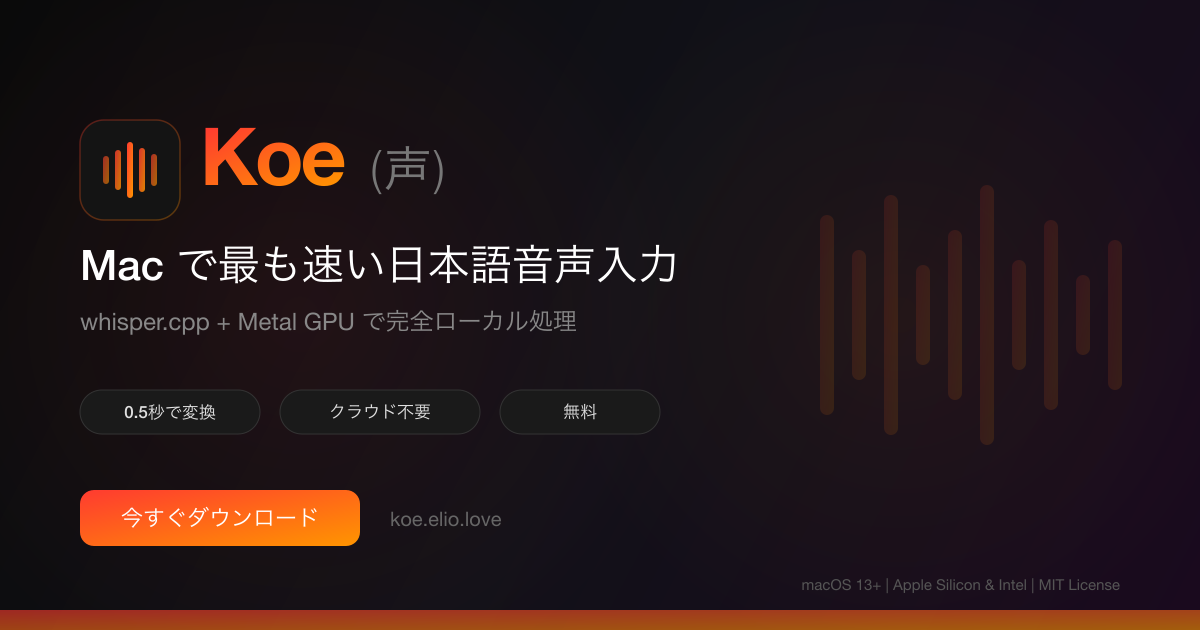
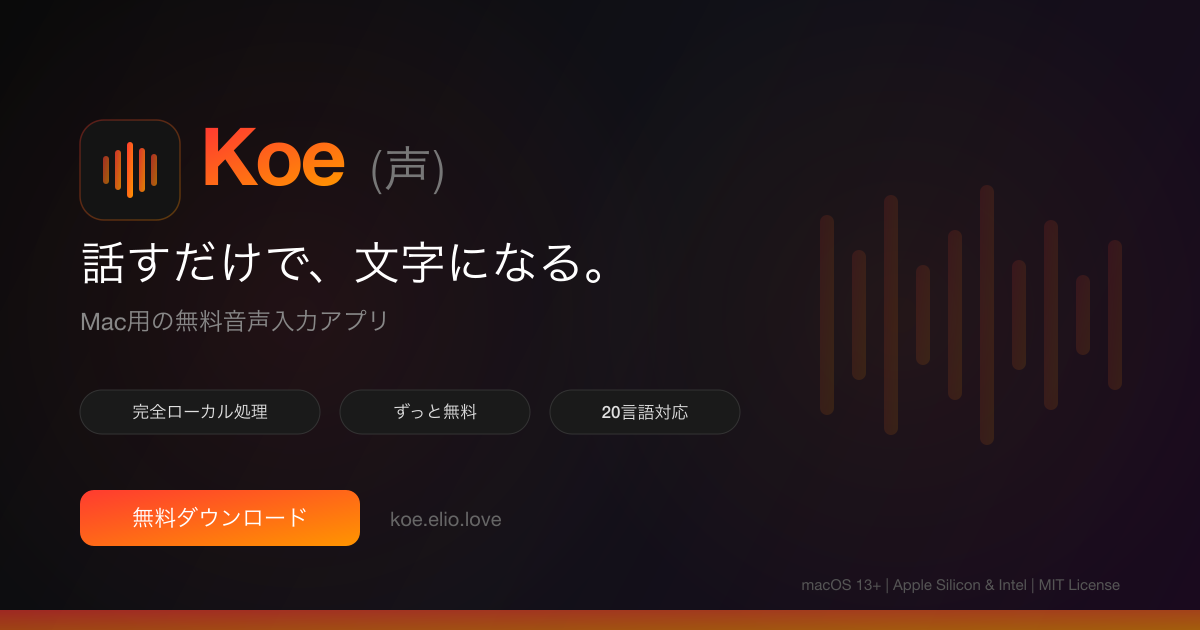
Update OGP image and JSON-LD to match new site messaging
- og.png: "話すだけで、文字になる" + "完全ローカル処理/ずっと無料/20言語対応"
- og.svg: source updated with new tagline and badges
- JSON-LD: description, version 2.2.5, simplified featureList
- og.html: template for future regeneration

diff --git a/site/og.html b/site/og.html
@@ -1,0 +1,98 @@
+<!DOCTYPE html>
+<html>
+<head>
+<meta charset="utf-8">
+<style>
+* { margin: 0; padding: 0; box-sizing: border-box; }
+body {
+  width: 1200px;
+  height: 630px;
+  background: #0a0a0a;
+  font-family: -apple-system, 'Noto Sans JP', sans-serif;
+  display: flex;
+  align-items: center;
+  justify-content: center;
+  position: relative;
+  overflow: hidden;
+}
+body::before {
+  content: '';
+  position: absolute;
+  top: -200px;
+  left: 50%;
+  transform: translateX(-50%);
+  width: 800px;
+  height: 800px;
+  background: radial-gradient(circle, rgba(255,59,48,.12) 0%, transparent 70%);
+}
+.content {
+  text-align: center;
+  position: relative;
+  z-index: 1;
+}
+.icon {
+  width: 80px;
+  height: 80px;
+  margin: 0 auto 32px;
+}
+h1 {
+  font-size: 72px;
+  font-weight: 700;
+  letter-spacing: -3px;
+  background: linear-gradient(135deg, #ff3b30, #ff9500);
+  -webkit-background-clip: text;
+  -webkit-text-fill-color: transparent;
+  margin-bottom: 16px;
+}
+.tagline {
+  font-size: 32px;
+  color: #e8e8e8;
+  font-weight: 500;
+  margin-bottom: 12px;
+}
+.sub {
+  font-size: 20px;
+  color: #888;
+}
+.badges {
+  display: flex;
+  gap: 16px;
+  justify-content: center;
+  margin-top: 32px;
+}
+.badge {
+  background: rgba(255,255,255,.08);
+  border: 1px solid rgba(255,255,255,.12);
+  border-radius: 8px;
+  padding: 8px 20px;
+  color: #ccc;
+  font-size: 16px;
+  font-weight: 500;
+}
+</style>
+</head>
+<body>
+<div class="content">
+  <svg class="icon" viewBox="0 0 120 120" fill="none" xmlns="http://www.w3.org/2000/svg">
+    <rect width="120" height="120" rx="28" fill="#0a0a0a"/>
+    <rect x="1" y="1" width="118" height="118" rx="27" stroke="url(#g)" stroke-width="2" stroke-opacity="0.4"/>
+    <g transform="translate(60,60)">
+      <rect x="-3" y="-28" width="6" height="56" rx="3" fill="url(#g)"/>
+      <rect x="-15" y="-20" width="6" height="40" rx="3" fill="url(#g)" opacity="0.8"/>
+      <rect x="9" y="-22" width="6" height="44" rx="3" fill="url(#g)" opacity="0.85"/>
+      <rect x="-27" y="-14" width="6" height="28" rx="3" fill="url(#g)" opacity="0.6"/>
+      <rect x="21" y="-16" width="6" height="32" rx="3" fill="url(#g)" opacity="0.65"/>
+    </g>
+    <defs><linearGradient id="g" x1="0" y1="0" x2="120" y2="120"><stop stop-color="#ff3b30"/><stop offset="1" stop-color="#ff9500"/></linearGradient></defs>
+  </svg>
+  <h1>Koe (声)</h1>
+  <div class="tagline">話すだけで、文字になる。</div>
+  <div class="sub">Mac用の無料音声入力アプリ</div>
+  <div class="badges">
+    <div class="badge">🔒 完全ローカル処理</div>
+    <div class="badge">💰 ずっと無料</div>
+    <div class="badge">🌐 20言語対応</div>
+  </div>
+</div>
+</body>
+</html>

diff --git a/site/index.html b/site/index.html
@@ -41,7 +41,7 @@
   "@type": "SoftwareApplication",
   "name": "Koe",
   "alternateName": "声",
-  "description": "Mac で最も速い日本語音声入力アプリ。whisper.cpp + Metal GPU で完全ローカル処理。",
+  "description": "話すだけで文字になる。Mac用の無料音声入力アプリ。音声データはMacの外に出ません。",
   "url": "https://koe.elio.love",
   "downloadUrl": "https://github.com/yukihamada/Koe-swift/releases/latest",
   "operatingSystem": "macOS 13+ (Apple Silicon & Intel)",
@@ -57,28 +57,20 @@
     "url": "https://github.com/yukihamada"
   },
   "license": "https://opensource.org/licenses/MIT",
-  "softwareVersion": "2.2.0",
+  "softwareVersion": "2.2.5",
   "datePublished": "2026-03-11",
   "inLanguage": ["ja", "en"],
   "screenshot": "https://koe.elio.love/og.png",
   "featureList": [
-    "Apple Speech + whisper.cpp ハイブリッド認識で即座に音声入力",
-    "完全ローカル処理 — クラウド不要",
-    "20言語対応・言語別専用モデル自動選択",
-    "2つの入力モード（オーバーレイ / 直接入力）",
-    "IME自動切替（Karabiner互換）",
-    "自動学習 — 修正データから認識精度向上",
-    "アプリ別プロンプト最適化",
-    "リアルタイム音声波形表示",
-    "ウェイクワード Beta (MFCC+DTW 自社エンジン)",
-    "Apple Speech リアルタイムプレビュー + whisper 高精度確定",
-    "Mac App Store で入手可能",
-    "⌃K ショートカットで即起動",
-    "アクセシビリティ権限なしでも動作（クリップボードモード）",
-    "議事録モード",
-    "テキスト展開辞書",
-    "LLM後処理 (llama.cpp / クラウド)",
-    "フローティングボタン（ドラッグ移動対応）"
+    "話すだけで文字が入力される",
+    "音声データは完全にMac内で処理 — クラウド送信なし",
+    "完全無料・オープンソース",
+    "20言語対応・言語別AIモデル自動選択",
+    "使うほど賢くなる自動学習",
+    "アプリごとに認識を自動最適化",
+    "議事録モード — 会議を自動記録",
+    "ショートカットキーでどのアプリからでも即起動",
+    "フローティングボタンでワンクリック録音"
   ]
 }
 </script>
